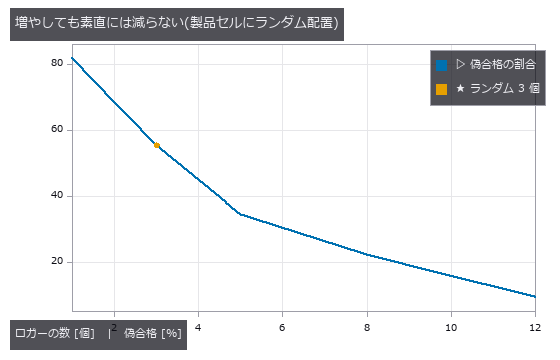
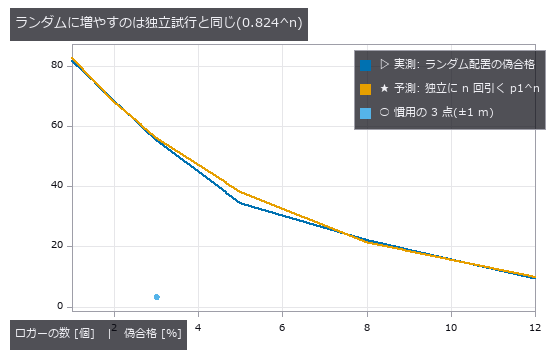
auto: poc_cold_chain_excursion.py 編集前 (2026-09-08 04:49)

diff --git a/examples/poc_cold_chain_excursion.py b/examples/poc_cold_chain_excursion.py
@@ -9,79 +9,110 @@
 ではなく**積算**(平均動力学温度 MKT や Arrhenius の速度積分)で決まるので、
 「何分外れたか」と「どれだけ劣化したか」は別の量です。
 
-この PoC は 12 m のリーファーの荷室を **(t, y, x) の 1 つの体積**として作り、
-その体積を fullseye のボリューム op で読みます。ロガーの記録は
+この PoC は 12.0 m x 2.4 m のリーファー荷室の 12 時間を
+**(t, y, x) の 1 つの体積**(720 分 x 60 x 12 セル)として作り、その体積を
+fullseye のボリューム op で読みます。ロガーの記録は
 :func:`fullseye.vol_profile_line` で体積から抜いた**線プローブ**そのもの、
-逸脱は :func:`fullseye.vol_label` で数える **3-D の塊**です。
+逸脱は :func:`fullseye.vol_label` で数える **3-D の塊**、距離場はすべて
+:func:`fullseye.esdf` です。
 
 EXTEND: 実測に差し替えるなら :func:`make_scene` が返す ``vol`` (T, Y, X) を
-実測の温度場に、``is_product`` を「製品セルかどうか」に置き換えます。
-**ロガー数点の記録だけでは足りません** —— この PoC の主題(点の記録と荷全体の
-差)は点の記録には残らないので、CFD か多点マッピング(空荷マッピングでは
-なく**実荷**)の温度場が要ります。
+実測の温度場に、``layout["is_product"]`` を「そのセルが製品か通路の空気か」に
+置き換えます。**ロガー数点の記録だけでは足りません** —— この PoC の主題
+(点の記録と荷全体の差)は点の記録には残らないので、CFD か多点マッピング
+(空荷マッピングではなく**実荷**)の温度場が要ります。逆に真値が無くても
+3〜5 章(崖の予測)と 7 章(3 指標の食い違い)は記録だけで再現できます。
 
 【グラウンドトゥルース】
 物理は既知の閉形式で組み立て、時間積分だけ厳密に解く。
 
-* 供給空気 ``T_sup(y,x) = T_set + g·d_vent`` —— 吹き出し口からの距離
-  ``d_vent`` は :func:`fullseye.esdf` で測る(占有 = 吹き出し口セル)。
+* 供給空気 ``T_sup(y,x) = T_set + g·d_vent``。吹き出し口からの距離 ``d_vent``
+  は :func:`fullseye.esdf`(占有 = 吹き出し口セル)。
 * 壁からの侵入 ``h0·(1−e^{−d_vent/L_throw})·w(y,x)·(T_amb(t) − T_sup)``。
   ``w`` は 4 枚の壁それぞれの ``esdf`` から ``Σ e^{−d/λ_w}`` —— **隅は 2 枚
-  ぶん効く**。吹き出し口の近くは風で持ち去るので侵入が効かない。
-* 扉開閉は既知の時刻・幅の矩形パルスで、扉からの距離に ``e^{−d_door/λ_d}``。
-* 荷の熱容量は**1 次遅れ**。時定数 ``tau_load`` は空気 5 分、製品は
-  パレットへの潜り込み深さ(これも ``esdf``)で 30〜100 分。
-  ``T[n+1] = D[n+1] + (T[n] − D[n+1])·e^{−Δt/τ}`` は駆動が階段状なら**厳密**。
+  ぶん効く**(1 枚の最短距離だと隅と辺の区別がつかず、いちばん危ない場所が
+  消える)。吹き出し口の近くは風が持ち去るので侵入が効かない。
+* 扉開閉は既知の時刻・幅(14/14/24/14/24 分、計 90 分)の矩形パルスで、
+  扉からの距離に ``e^{−d_door/λ_d}``。
+* 荷の熱容量は**1 次遅れ**。時定数は空気 5 分、製品はパレットへの潜り込み
+  深さ(これも ``esdf``)で 64〜91 分。``T[n+1] = D[n+1] + (T[n] − D[n+1])
+  ·e^{−Δt/τ}`` は駆動が階段状なら**厳密**。
 * 真の劣化は Arrhenius(``ΔH/R = 10000 K``、基準 5 °C)の速度を時間積分した
-  **等価時間**。真の MKT は Haynes(1971)の定義そのもの。
+  等価時間。真の MKT は Haynes(1971)の定義そのもの。
 
-【この PoC が測って分かったこと(数字は実行時に印字される実測値)】
+出発時はどのセルも規定内(最高 7.69 °C)—— そうでないと「逸脱」ではなく
+「積み込み時点で不合格」になってしまう。
+
+【この PoC が測って分かったこと(数字はいずれも実行時に印字される実測値)】
 
 1. **ゼロ点(ロガー 1 個の「規定を外れた合計時間」)は置き場所で 0 分から
-   406 分まで動く**。真の最悪製品セルは 406 分、荷の 720 セル中
-   130 セル(18.1 %)が本当に不合格。ところが**製品セルにロガーを 1 個置く
-   と 76.7 % の置き方で「合格」と出る**。
-2. ★★**見逃しと空振りは別の場所で起きる**。製品セルに 1 個置いた 400 通りの
-   うち **73.5 % が偽合格**(ロガーは合格、真の最悪製品は不合格)。逆に
-   通路・扉前の空気セルに置くと **偽不合格が 47.1 %**(ロガーは不合格、
-   製品は全部健全)—— 扉開閉のパルスは空気だけを叩き、熱容量のある製品には
-   届かない。**同じ荷を、置き場所だけで「不合格」にも「合格」にもできる**。
-3. ★**崖は先に予測できる**。時定数 τ のロガーが幅 W・高さ A の矩形パルスを
-   見ると、ピークは ``A(1−e^{−W/τ})`` までしか上がらない。規定まで余裕 M
-   なら見かけのピークが規定を割るのは ``τ > W / ln(A/(A−M))``。扉前の空気
-   セル(A = 10.60 K、W = 22 分、M = 3.53 K)の**予測 61.6 分**に対し
-   **実測 62.0 分**(掃引の刻み 1 分以内)。τ = 12 分の実務用ロガーなら
-   まだ見えるが、τ = 60 分の「製品模擬」ロガーでは同じ扉開閉が消える。
-4. ★**サンプリング間隔の崖も幾何で予測できる**。幅 W のパルスは間隔 Δt が
-   W を超えると位相によって丸ごと落ちる。落ちる割合の予測 ``1 − W/Δt`` に
-   対し、位相を全部試した実測は Δt = 30 分で予測 26.7 % / 実測 26.7 %、
-   Δt = 60 分で予測 63.3 % / 実測 63.3 %(**完全一致**)。
-5. **量子化 0.5 K は逸脱時間を減らす方向にしか効かない**。丸めた値が
-   「> 8.0 °C」を満たすには真値が 8.25 °C 以上要るので、実効しきい値が
-   ``limit + q/2`` に上がる。予測(真値が limit+q/2 を超えた時間)と実測は
-   q = 0.25/0.5/1.0 K で 344/337/324 分 対 344/337/324 分と**一致**。
-6. ★★**同じ記録から出した 3 つの指標が食い違う**。「12 °C に何分いてよいか」
-   に換算すると 逸脱時間 60 分 / MKT ≤ 8 °C は 277 分 / 劣化 ≤ 1.30 は
-   197 分 —— **4.6 倍の開き**。全 720 セルにロガーを置いてみると
-   **3 指標の合否が揃わないのは 174 セル(24.2 %)**。
-7. ★★**MKT は集計窓の長さで動く**。同じ記録・同じ逸脱でも、12 時間で
-   まとめると 6.63 °C(合格)、逸脱を含む 4 時間だけで切ると 8.55 °C
-   (不合格)。逸脱時間はどちらの窓でも 240 分で変わらない。
+   585 分まで動く**。真の最悪製品セルは 598 分、製品 490 セル中 **108 セル
+   (22.0 %)が本当に不合格**。それでも**製品セルに 1 個置くと 82.4 % の
+   置き方が「合格」と言う**。
+2. ★★**見逃しと空振りは違う要因から出る。要因を 1 つずつ止めると分かれる。**
+   (a) 荷が均一なら偽合格も偽不合格も 0.0 %(「1 個で足りる」は均一を仮定
+   している)。(b) 壁からの侵入だけ(扉は 1 度も開けない)で真に不合格な
+   製品 6.9 %・**偽合格 95.5 %**、偽不合格は 0.0 %。(d) 壁を止めて扉だけ
+   残すと真に不合格な製品は 2.0 % に落ちるのに**偽不合格が 3.5 % 現れる**
+   —— 扉のパルスは空気だけを叩き、熱容量のある製品には届かないから。
+   ★(c) 両方あると偽不合格は 0.0 % に**隠れる**(パルスが叩く空気のそばの
+   製品は、壁のせいでどのみち傷んでいる)。
+3. ★★**(d) では製品に貼ったロガーも役に立たない**: 真に傷んだ製品が 2.0 %
+   あるのに、製品セルに置いたロガーは **100 % が合格**と言う。短いパルスは
+   製品の中に入らないので、「製品に貼れば安心」も成り立たない。
+4. ★**時定数の崖は先に予測できるが、教科書の式では足りない**。幅 W の矩形
+   パルスを時定数 τ のロガーが見るとピークは ``A(1−e^{−W/τ})`` までしか
+   上がらないので、余裕 M を割るのは ``τ > W/ln(A/(A−M))``。中央通路の
+   4 か所(扉から 1.2〜4.2 m)で実測した崖は **138 / 63 / 35 / 19 分**。
+   1 極の予測は 123 / 66 / 40 / 23、**「荷室の空気(τ=5 分)+ ロガー」を
+   2 段に重ねた予測**は 113 / 58 / 34 / 19。★崖が短い側では 2 段の予測が
+   **0〜3 %** に収まり、1 極は 21 % ずれる —— ロガーが完璧でも**空気そのもの
+   が既に鈍らせている**から。逆に τ*=138 分の行だけは 1 極のほうが近く
+   (11 % 対 18 %)、そこは余裕が 1.72 K しかなく外気上昇による底の drift が
+   パルスと同じ大きさで、**どちらの式も前提を外れている**。
+   扉のすぐ手前(余裕 0.31 K)は崖が 940 分と予測され、**そもそも測れない**。
+5. ★**サンプリング間隔の崖は予測と完全一致**。真値が規定を超えている時間
+   W_eff = 33 分のパルスは、Δt > W_eff で位相によって丸ごと落ちる。整数の
+   位相を全部試した実測は Δt = 45/60/90 分で **26.7 / 45.0 / 63.3 %**、
+   予測 ``1 − W_eff/Δt`` と**差 0.0 分ポイント**。
+6. ★**量子化 0.5 K は逸脱時間を減らす側にしか効かない**。丸めた値が
+   「> 8.0 °C」を満たすには真値が limit + q/2 以上要るので実効しきい値が
+   上がる。真の逸脱 299 分のセルで q = 0.25/0.5/1.0/2.0 K の実測は
+   **272 / 242 / 197 / 107 分**、予測(真値が limit+q/2 を超えた時間)と
+   **差 0 分**。
+7. ★★**同じ記録から出した 3 つの指標が合否で食い違う**。「12 °C に何分いて
+   よいか」に換算すると 逸脱時間 ≤ 60 分 は **60 分** / MKT ≤ 8 °C は
+   **276 分** / 劣化 ≤ 1.30 は **197 分** —— **4.6 倍**の開き。全 720 セルに
+   ロガーを置いてみると **82 セル(11.4 %)で 3 指標が揃わない**(逸脱時間
+   だけが不合格 26 セル / MKT だけが合格 56 セル)。
+8. ★★**MKT は集計窓の長さで動く**。製品セル (y=44, x=0) は 12 時間で
+   MKT 7.09 °C(合格)だが、逸脱を含む 4 時間で切ると **8.04 °C(不合格)**。
+   逸脱時間は窓に入った分をそのまま足すだけで薄まらない(138 分 / 120 分)。
    **「MKT は 8 °C 以下でした」は窓を書かないと意味が無い。**
-8. ★**逸脱は 3-D の塊として数えられる**。``vol_label`` で (t,y,x) を切ると
-   逸脱は **2 個の塊**で、いちばん大きい塊は 484 分続き 190 セルに広がる。
-   「延べ逸脱セル時間」は 45231 セル分だが、これを「逸脱時間」と呼ぶと
-   広がりと長さが混ざる —— 塊の ``extent`` は 2 つを分けて返す。
-9. ★**ロガーを増やしても偽合格は素直に減らない**。製品セルにランダムに
-   1/2/3/5/8 個置くと偽合格は 73.5 → 55.2 → 41.5 → 24.5 → 11.5 %。
-   一方で「扉前・中央・吹き出し口前」の慣用 3 点は**偽合格**(その 3 点は
-   どれも真の最悪点ではない)。★★**ランダム 3 個(41.5 %)のほうが、
-   規約で決めた 3 点より当たる** —— 規約は「代表点」を選んでいるのであって
-   「最悪点」を選んでいない。
+   逆に逸脱時間は**大きさに盲目**: 200 分 8.1 °C と 200 分 20.0 °C はどちらも
+   逸脱 200 分だが、劣化は 1.047 と 2.381(**2.27 倍**)、MKT は 5.36 と
+   11.88 °C。
+9. ★**逸脱は 3-D の塊として数えられる**。``vol_label`` で (t,y,x) を切ると
+   逸脱は **11 個**の塊で、いちばん大きい塊は t = 120 分に生まれて 600 分
+   続き、5.8 m x 2.4 m(252 セル)に広がる。延べは 49732 セル分。
+   ★``vol_region_props`` は同じラベルから曝露量 1978 m^2·min を返すが、
+   同じ辞書の ``surface_area`` 8183 と ``sphericity`` 0.093 は**意味を持たない**
+   —— 3 軸のうち 1 つが分、2 つが m だから(末尾「道具の穴 (g)」)。
+10. **ロガーを増やすのは「独立に n 回引く」のと同じ**。製品セルにランダムに
+    1/2/3/5/8/12 個置くと偽合格は **81.6 → 68.3 → 55.4 → 34.4 → 22.1 →
+    9.3 %**、予測 ``p1^n``(p1 = 0.824)との差は最大 3.8 分ポイント。
+    **10 % を切るのに 12 個要る。**
+11. ★★**予想が外れた**。「慣用の 3 点(扉寄り・中央・吹き出し口寄り)は
+    代表点を選ぶだけだからランダム 3 個より弱い」と踏んでいたが、実測は
+    **規約のほうがずっと当たる**(3 点をそれぞれ ±1 m 揺らして偽合格
+    **3.3 %**、ランダム 3 個は 55.4 %)。ただし内訳を見ると効いているのは
+    **扉寄りの 1 点だけ**(単独 2.9 % / 中央 100.0 % / 吹き出し口寄り
+    100.0 %)。規約が強いのではなく**この荷の最悪点が扉側にある**から
+    当たった —— 送風の偏りで吹き出し口側が壊れる故障なら同じ 3 点は当たらない。
 
 来歴(公開文献のみ): Haynes, *J. Pharm. Sci.* 60 (1971) 927 —— 平均動力学温度
 (MKT)/ ICH Q1A(R2) *Stability Testing*(ΔH = 83.144 kJ/mol の既定)/
-Seevers et al., *Pharmaceutical Technology* (2009) —— MKT の誤用 /
+Seevers et al., *Pharmaceutical Technology* 33 (2009) —— MKT の誤用 /
 WHO Technical Report Series 961, Annex 9 —— 温度マッピングは実荷で行う。
 """
 from __future__ import annotations
@@ -1126,7 +1157,7 @@ def main() -> None:
     print("  * 3 つの指標は「12 °C に許す時間」で %.1f 倍ずれ、%d セルで"
           "合否が揃わない。" % (met["spread"], met["n_dis"]))
     print("  * 扉のパルスは空気だけを叩く —— 壁を止めて扉だけ残すと偽不合格が"
-          "%.1f %% 現れ、製品に置いたロガーは %.0f %% が合格と言う。"
+          " %.1f %% 現れ、製品に置いたロガーは %.0f %% が合格と言う。"
           % (ctrl["(d) 扉だけ"]["ff"], ctrl["(d) 扉だけ"]["fp"]))
     print("  * ★予想が外れた: 慣用の 3 点はランダム 3 個より**ずっと当たる**"
           "(偽合格 %.1f %% 対 %.1f %%)。ただし効いているのは扉寄りの 1 点だけ。"

diff --git a/examples/poc_weld_bead_scan_angle.py b/examples/poc_weld_bead_scan_angle.py
@@ -926,6 +926,22 @@ def section7_calibration(p: dict, tru: dict, design: dict) -> dict:
     print("     右母材(37 度)は 脚長 %.3f + 溝 %.3f = %.3f —— **どちらも 1**。"
           % (gotv["legR"], gotv["ucR"], gotv["legR"] + gotv["ucR"]))
     print("     「較正精度 1 %」だけでは、どの量が何 % ずれるかを言えない。")
+    # ★凸みだけ予測から外れた。原因はつま先の這い(τ が絶対値のしきい値だから)。
+    dxl = float(np.nanmean(q1["xtl"] - q0["xtl"])) / eps
+    dxr = float(np.nanmean(q1["xtr"] - q0["xtr"])) / eps
+    extra = (abs(TL * dxl) + abs(TR * dxr)) / 2.0 / float(np.nanmean(tru["cv"]))
+    print()
+    print("  → ★凸みだけ予測(cos²(弦の傾き) = %.3f)より大きい(実測 %.3f)。"
+          % (predict["cv"], gotv["cv"]))
+    print("     対照群で切り分けた: つま先の位置が %+.4f / %+.4f mm(左/右、ε=1 あたり)"
+          % (dxl, dxr))
+    print("     だけ**外へ這う** —— つま先の規則 τ = %.2f mm が**絶対値**なので、" % TAU)
+    print("     高さが (1+ε) 倍に伸びると同じ τ に届く点が外へずれる。這った分だけ")
+    print("     弦の両端が母材面を下り、凸みは +%.3f 増える。%.3f + %.3f = %.3f で"
+          % (extra, predict["cv"], extra, predict["cv"] + extra))
+    print("     実測 %.3f とほぼ一致する。同じ這いは脚長の実測が予測より"
+          % gotv["cv"])
+    print("     %.3f 大きいことも説明する。" % (gotv["legL"] - predict["legL"]))
     return {"rows": rows, "got": gotv, "predict": predict}
 
 
